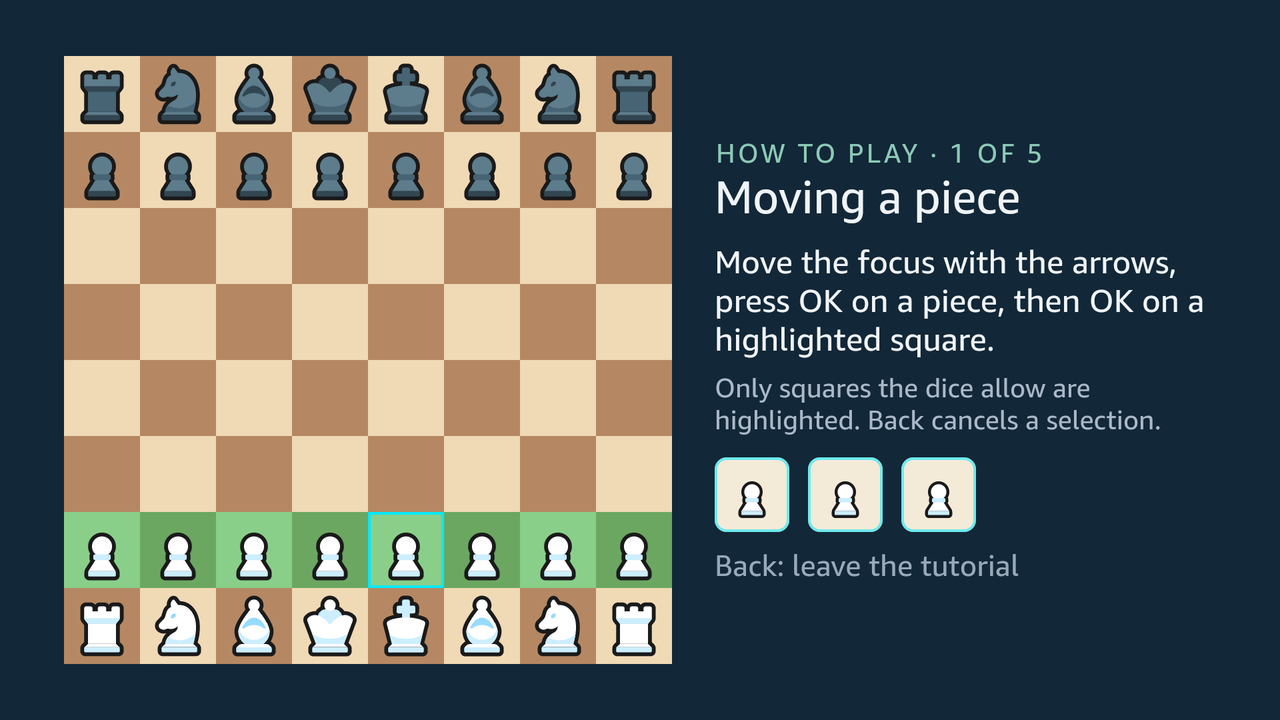
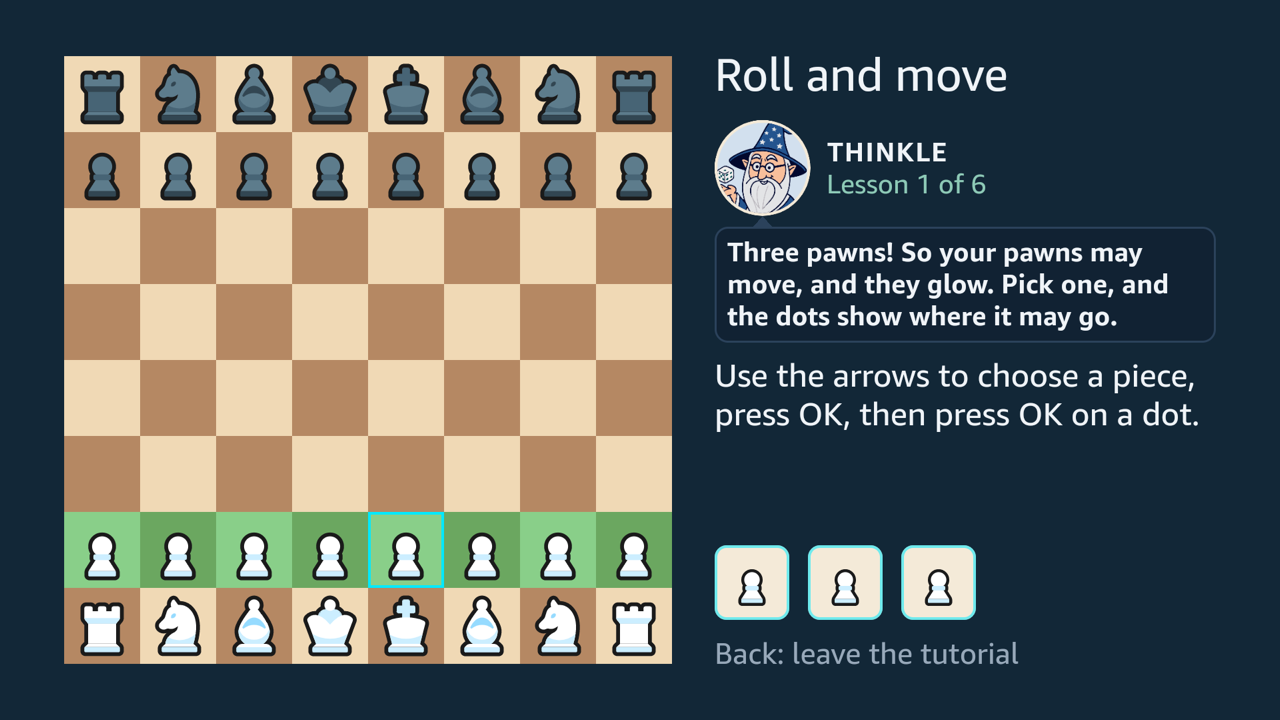
docs: link the tutorial video, and show Thinkle in the tutorial screenshot
The owner published a recording of the whole tutorial, taught aloud by
Thinkle (https://youtu.be/KK8BBICjaBQ, 4:52, one take on the Vega Virtual
Device).

- README names it beside the demo video.
- The site's tutorial screenshot is retaken: lesson 1 after its roll,
  Thinkle speaking beside his portrait. On the home page, Features and
  Learning the game it links to the video, as the demo's picture does,
  so no page loads anything from YouTube until a visitor chooses to
  watch. Learning the game links each lesson's chapter.
- Features and the beta page still listed five lessons; they now list
  the six.

Part of #264.

Changed region(s): [[0.5312, 0.1528, 0.9375, 0.9472], [0.5625, 0.0611, 0.7812, 0.1222]]

diff --git a/README.md b/README.md
@@ -13,6 +13,8 @@ Dice Chess for Amazon Fire TV: two players sharing one screen and remote, or a g
 
 **Demo video:** <https://youtu.be/DZOp3GAahlU>, 2:18, recorded on the Vega Virtual Device.
 
+**Tutorial video:** <https://youtu.be/KK8BBICjaBQ>, 4:52, recorded on the Vega Virtual Device: Thinkle the wizard teaches the six lessons of How to play aloud.
+
 **Status: a React Native for Vega application that builds and runs from this repository.** `npm run build --prefix native` produces an installable package that installs, launches and plays on the Vega Virtual Device. There, Amazon's KPI Visualizer measured a cool start of a Release build at 309 ms to first frame and 748 ms to fully drawn, on average (25 September 2026, 3 iterations, not in certification mode), against Amazon's cool-start targets of under 1.5 s and under 8 s ([FL-20](https://dicechess-tv.jegors-cemisovs.workers.dev/friction-log/#fl-20)). Hotseat and three local opponents, from easy to hard, three-die turns, promotion, king capture, resignation, draw agreement, save and resume mid-turn, a completed-game ledger, an interactive tutorial and a rules guide are all implemented on the native board, driven entirely by D-pad, OK and Back.
 
 Also done: sound for every step of the game — chosen by ear, heard on the virtual device, and set on a settings screen in both menus — an icon and splash screen, and an About screen carrying the credits the asset licences require. Adaptive music follows the danger to the king, with four themes by pepka-prygni used with his permission. On the virtual device its own reports show it switching themes and stopping for the launcher, but it has not been checked by ear there yet ([#76](https://github.com/fortemate/dicechess-tv/issues/76)). Each move slides to its new square, so an opponent's turn can be followed ([#131](https://github.com/fortemate/dicechess-tv/issues/131)), a roll tumbles in ([#99](https://github.com/fortemate/dicechess-tv/issues/99)), and the board can turn to the side to move in hotseat ([#120](https://github.com/fortemate/dicechess-tv/issues/120)). Not done: onboarding. Everything above is evidence from the **virtual** device; nothing has yet run on physical Fire TV hardware, and the emulator does not measure Stick performance.

diff --git a/site/src/content/docs/design/learning.md b/site/src/content/docs/design/learning.md
@@ -9,7 +9,9 @@ Most people who pick up the remote know chess, or some of it, and have never pla
 
 ## The tutorial
 
-![The first tutorial lesson, Moving a piece, with the pawns that can move marked](../../../assets/screenshots/tutorial.png)
+[![Play the tutorial video on YouTube: the first tutorial lesson, Roll and move, after the roll: Thinkle speaks from beside his portrait and the pawns that can move are marked](../../../assets/screenshots/tutorial.png)](https://youtu.be/KK8BBICjaBQ)
+
+The whole tutorial, 4:52 on YouTube, recorded in one take on the Vega Virtual Device: [roll and move](https://youtu.be/KK8BBICjaBQ?t=0), [dice choose the pieces](https://youtu.be/KK8BBICjaBQ?t=52), [clear the way](https://youtu.be/KK8BBICjaBQ?t=97), [when nothing can move](https://youtu.be/KK8BBICjaBQ?t=153), [taking a piece](https://youtu.be/KK8BBICjaBQ?t=193), [taking the king](https://youtu.be/KK8BBICjaBQ?t=236) and [the closing words](https://youtu.be/KK8BBICjaBQ?t=275).
 
 Six short lessons, taught by Thinkle the wizard. Each is a real position with a fixed roll, and each opens on that roll, which the player makes with OK, as every turn of a game begins:
 

diff --git a/site/src/content/docs/project/features.md b/site/src/content/docs/project/features.md
@@ -45,17 +45,18 @@ About one roll in twelve leaves nothing to play, and so do nearly a third of fir
 
 ## The tutorial
 
-Five short lessons, each on a real position with a fixed roll, teach the game by playing it:
+Six short lessons, taught aloud by Thinkle the wizard, each on a real position with a fixed roll, teach the game by playing it:
 
-1. moving a piece;
+1. roll and move;
 2. the dice choose the pieces;
-3. three actions in one turn;
-4. taking a piece;
-5. taking the king ends it.
+3. clear the way;
+4. when nothing can move;
+5. taking a piece;
+6. taking the king ends it.
 
 A lesson never touches a saved game or the record.
 
-![The first tutorial lesson, Moving a piece, with the pawns that can move marked](../../../assets/screenshots/tutorial.png)
+[![Play the tutorial video on YouTube: the first tutorial lesson, Roll and move, after the roll: Thinkle speaks from beside his portrait and the pawns that can move are marked](../../../assets/screenshots/tutorial.png)](https://youtu.be/KK8BBICjaBQ)
 
 ## The rules guide
 

diff --git a/site/src/content/docs/play/beta.md b/site/src/content/docs/play/beta.md
@@ -27,7 +27,7 @@ Each pre-release has three packages: one for a Fire TV Stick in developer mode, 
 
 ## What to try
 
-- **How to play**, the five-lesson tutorial, before anything else.
+- **How to play**, the six-lesson tutorial, before anything else.
 - A game against the computer: Rolly (easy), Grabby (medium) or Rampage (hard).
 - A hotseat game with someone else in the room, passing the remote.
 - **Rules**, to look something up.
